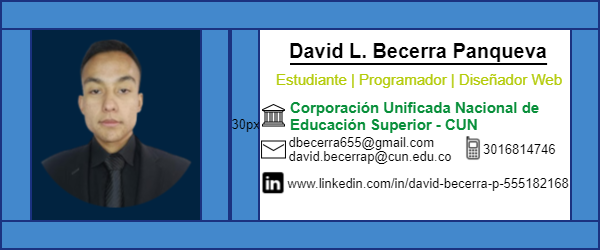
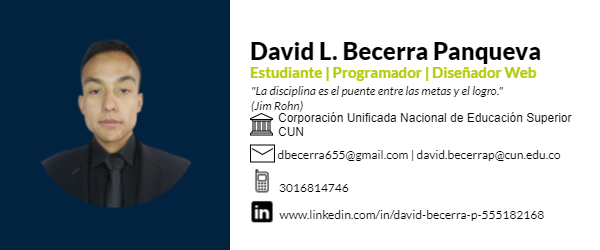
Subida de mockup

diff --git a/Recursos/index.html b/Recursos/index.html
@@ -70,13 +70,13 @@
                 <td colspan="2" id="top">
                     <h2>David L. Becerra Panqueva</h2>
                     <h3>Estudiante | Programador | Diseñador Web</h3>
-                    <p><cite>"La disciplina es el puente entre las metas y el logro." (Jim Rohn)</cite></p>
+                    <p><cite>"La disciplina es el puente entre las metas y el logro."<br>(Jim Rohn)</cite></p>
                 </td>
             </tr>
             <!--Se distribuyen las filas para cada icono y su respectivo texto-->
             <tr>
                 <td class="left"><img src="./Imgs/icono-universidad-25.png" alt="Icono Universidad"></td>
-                <td class="rigth">Corporación Unificada Nacional de Educación Superior - CUN</td>
+                <td class="rigth">Corporación Unificada Nacional de Educación Superior <br> CUN</td>
             </tr>
             <tr>
                 <td class="left"><img src="./Imgs/icono-correo-25.png" alt="Icono Correo"></td>
